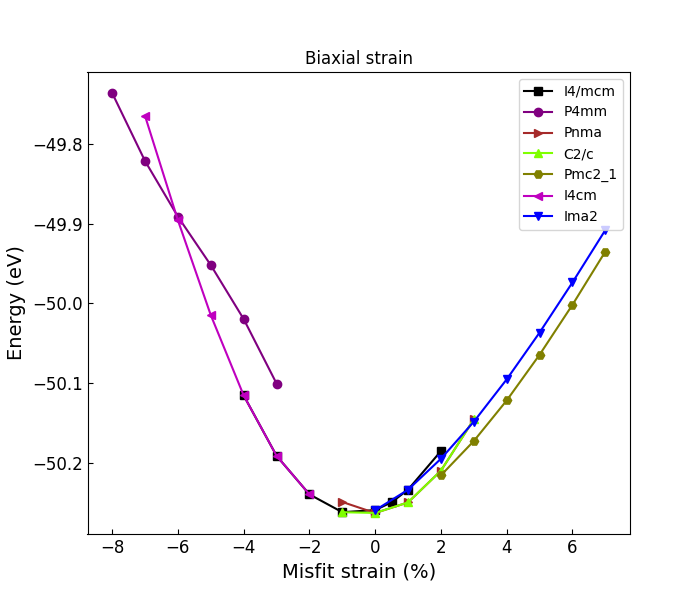
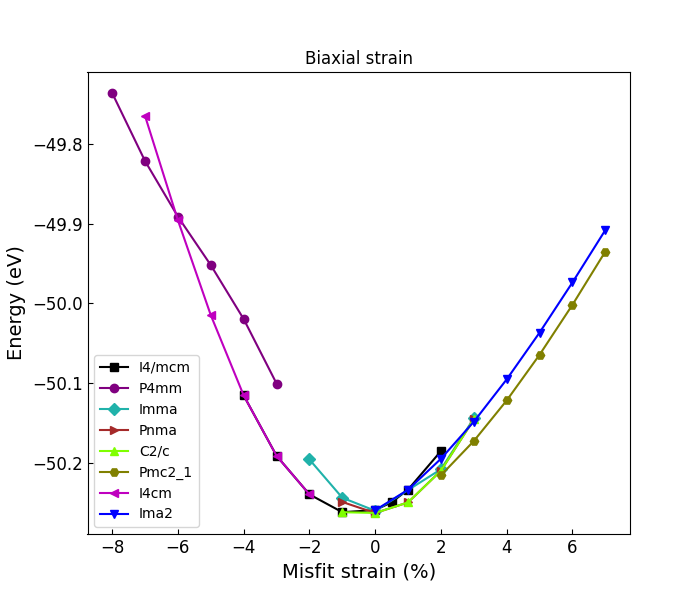
09.03.2025

diff --git a/PhD madness/uniaxial_strain.py b/PhD madness/uniaxial_strain.py
@@ -1,40 +1,53 @@
 import matplotlib.pyplot as plt
 
 # Данные
-x_I4_mcm = [-4.00, -3.00, -2.00, -1.00, 0.00, 0.50, 1.00, 2.00] # Фаза проверена
-y_I4_mcm = [-200.462847030 / 4, -200.765920710 / 4, -200.959607610 / 4, -201.049075670 / 4, -201.038515920 / 4,
-           -200.999170270 / 4, -200.935652040 / 4, -200.742049550 / 4]
+x_P4/mmm = [0.00, 1.00, 2.00, 3.00, 4.00, 5.00, 6.00, 7.00, 8.00, 9.00, 10.00]
+y_P4/mmm = []
 
-x_P4mm = [-8.00, -7.00, -6.00, -5.00, -4.00, -3.00] # Фаза проверена
-y_P4mm = [-198.943953460 / 4, -199.285493010 / 4, -199.564980710 / 4, -199.808363760 / 4, -200.079119550 / 4,
-          -200.403009200 / 4]
+x_I4_mcm = [0.00, 1.00, 2.00, 3.00, 4.00, 5.00, 6.00, 7.00, 8.00, 9.00, 10.00]
+y_I4_mcm = [ / 4]
 
-# x_Imma = [-2.00, -1.00, 0.00, 1.00, 2.00, 3.00]
-# y_Imma = []
+x_P4/mbm = [0.00, 1.00, 2.00, 3.00, 4.00, 5.00, 6.00, 7.00, 8.00, 9.00, 10.00]
+y_P4/mbm = []
 
-x_Pnma = [-1.00, 0.00, 1.00, 2.00, 3.00] # Фаза проверена
-y_Pnma = [-200.997767250 / 4, -201.053085670 / 4, -200.999898660 / 4, -200.840539020 / 4, -200.582906320 / 4]
+x_Imma = [0.00, 1.00, 2.00, 3.00, 4.00, 5.00, 6.00, 7.00, 8.00, 9.00, 10.00]
+y_Imma = []
 
-x_C2_c = [-1.00, 0.00, 1.00, 2.00, 3.00] # Фаза проверена
-y_C2_c = [-201.049084340 / 4, -201.052852100 / 4, -200.999895620 / 4, -200.840498300 / 4, -200.582944320 / 4]
+x_C2_m = [0.00, 1.00, 2.00, 3.00, 4.00, 5.00, 6.00, 7.00, 8.00, 9.00, 10.00]
+y_C2_m = []
 
-x_Pmc2_1 = [2.00, 3.00, 4.00, 5.00, 6.00, 7.00] # Фаза проверена
-y_Pmc2_1 = [-200.863851580 / 4, -200.691550890 / 4, -200.487917020 / 4, -200.258320800 / 4, -200.007569500 / 4,
-            -199.740011790 / 4]
+x_Cmcm = [0.00, 1.00, 2.00, 3.00, 4.00, 5.00, 6.00, 7.00, 8.00, 9.00, 10.00]
+y_Cmcm = []
 
-x_I4cm = [-7.00, -6.00, -5.00, -4.00, -3.00, -2.00] # Фаза проверена
-y_I4cm = [-199.058979720 / 4, -199.583121550 / 4, -200.059696990 / 4, -200.462840000 / 4, -200.765896130 / 4,
-          -200.959610370 / 4]
+x_Pnma = [0.00, 1.00, 2.00, 3.00, 4.00, 5.00, 6.00, 7.00, 8.00, 9.00, 10.00]
+y_Pnma = []
 
-x_Ima2 = [0.00, 1.00, 2.00, 3.00, 4.00, 5.00, 6.00, 7.00] # Фаза проверена
-y_Ima2 = [-201.039256210 / 4, -200.936202140 / 4, -200.780555550 / 4, -200.594596760 / 4, -200.381842180 / 4,
-          -200.146985260 / 4, -199.895204080 / 4, -199.632142410 / 4]
+x_R_3c = [0.00, 1.00, 2.00, 3.00, 4.00, 5.00, 6.00, 7.00, 8.00, 9.00, 10.00]
+y_R_3c = []
+
+x_P4mm = [0.00, 1.00, 2.00, 3.00, 4.00, 5.00, 6.00, 7.00, 8.00, 9.00, 10.00]
+y_P4mm = []
+
+x_P1 = [0.00, 1.00, 2.00, 3.00, 4.00, 5.00, 6.00, 7.00, 8.00, 9.00, 10.00]
+y_P1 = []
+
+# x_C2_c = [0.00, 1.00, 2.00, 3.00, 4.00, 5.00, 6.00, 7.00, 8.00, 9.00, 10.00]
+# y_C2_c = []
+
+# x_Pmc2_1 = [0.00, 1.00, 2.00, 3.00, 4.00, 5.00, 6.00, 7.00, 8.00, 9.00, 10.00]
+# y_Pmc2_1 = []
+
+# x_I4cm = [0.00, 1.00, 2.00, 3.00, 4.00, 5.00, 6.00, 7.00, 8.00, 9.00, 10.00]
+# y_I4cm = []
+
+# x_Ima2 = [0.00, 1.00, 2.00, 3.00, 4.00, 5.00, 6.00, 7.00, 8.00, 9.00, 10.00]
+# y_Ima2 = []
 
 # Построение графиков
 plt.figure(figsize=(7, 6))
 plt.plot(x_I4_mcm, y_I4_mcm, color='k', marker='s', markerfacecolor='k',  markeredgecolor='k', markersize=6, label="I4/mcm")
 plt.plot(x_P4mm, y_P4mm, color='#800080', markerfacecolor='#800080',  markeredgecolor='#800080', marker='o', label="P4mm")
-# plt.plot(x_Imma, y_Imma, marker='D', color='lightseagreen', markerfacecolor='lightseagreen',  markeredgecolor='lightseagreen', label="Imma")
+plt.plot(x_Imma, y_Imma, marker='D', color='lightseagreen', markerfacecolor='lightseagreen',  markeredgecolor='lightseagreen', label="Imma")
 plt.plot(x_Pnma, y_Pnma, color='#A52A2A', markerfacecolor='#A52A2A',  markeredgecolor='#A52A2A', marker='>', label="Pnma")
 plt.plot(x_C2_c, y_C2_c, marker='^', color='chartreuse', markerfacecolor='chartreuse',  markeredgecolor='chartreuse', label="C2/c")
 plt.plot(x_Pmc2_1, y_Pmc2_1, marker='H', color='olive', markerfacecolor='olive',  markeredgecolor='olive', label="Pmc2_1")

diff --git a/PhD madness/17th_num_calculations.py b/PhD madness/17th_num_calculations.py
@@ -14,7 +14,7 @@ getcontext().prec = 17
 a = Decimal('3.8894989172591279')
 
 # Умножение
-c_new = a * Decimal('1.03')
+c_new = a * Decimal('1.065')
 
 # Вывод результата
 print(c_new)
